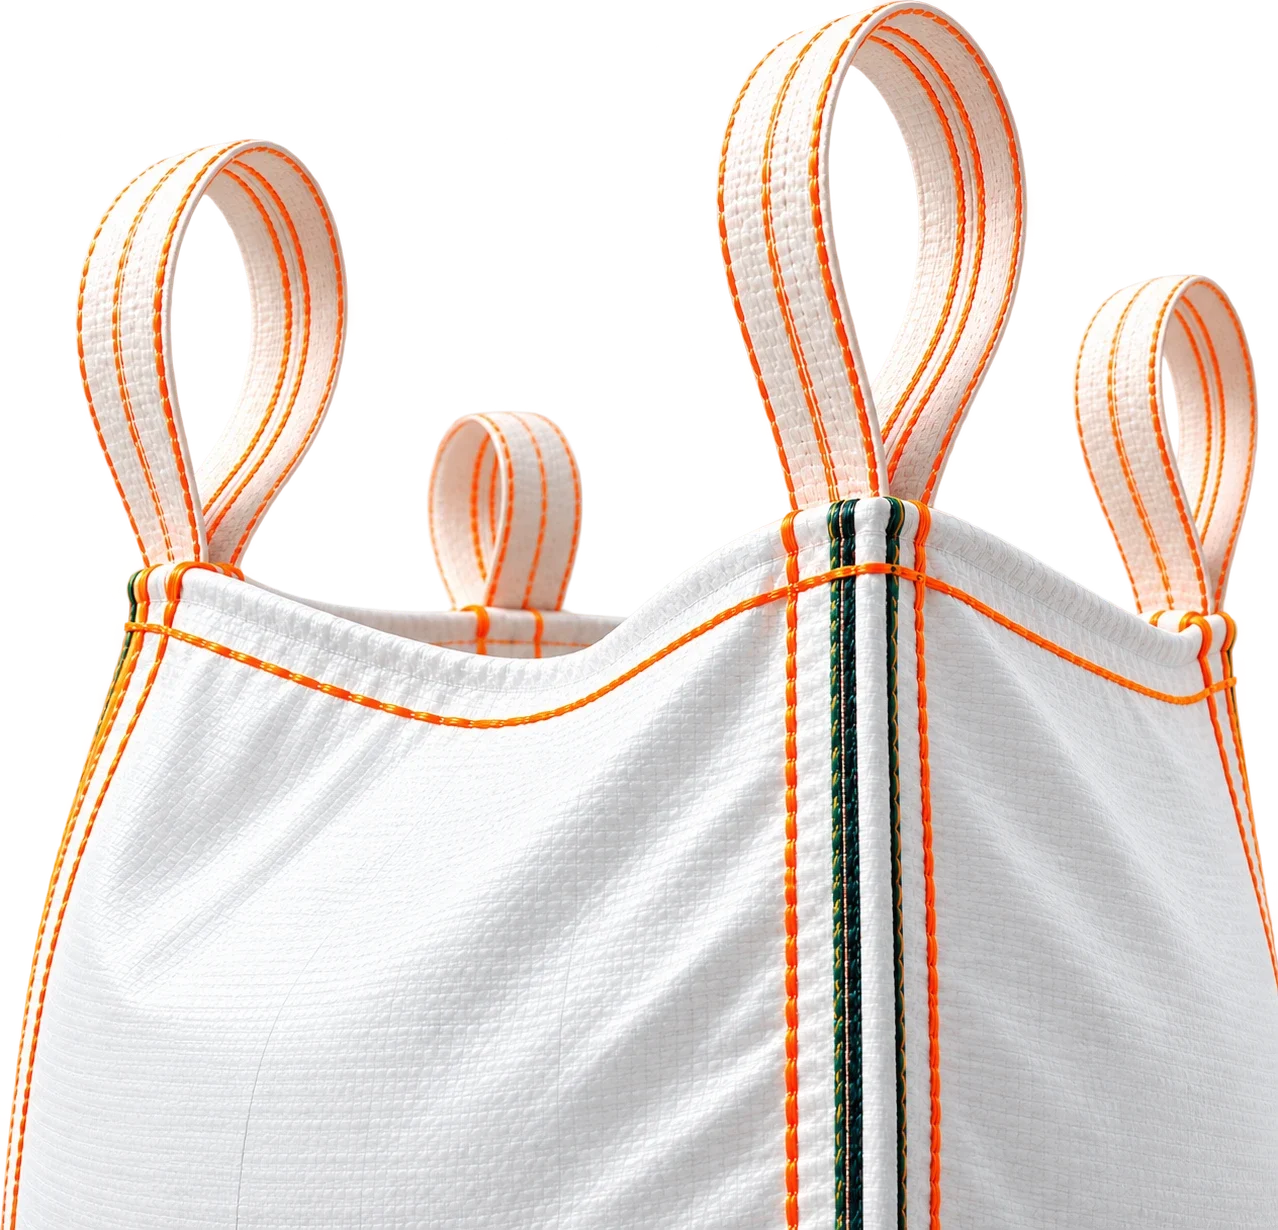
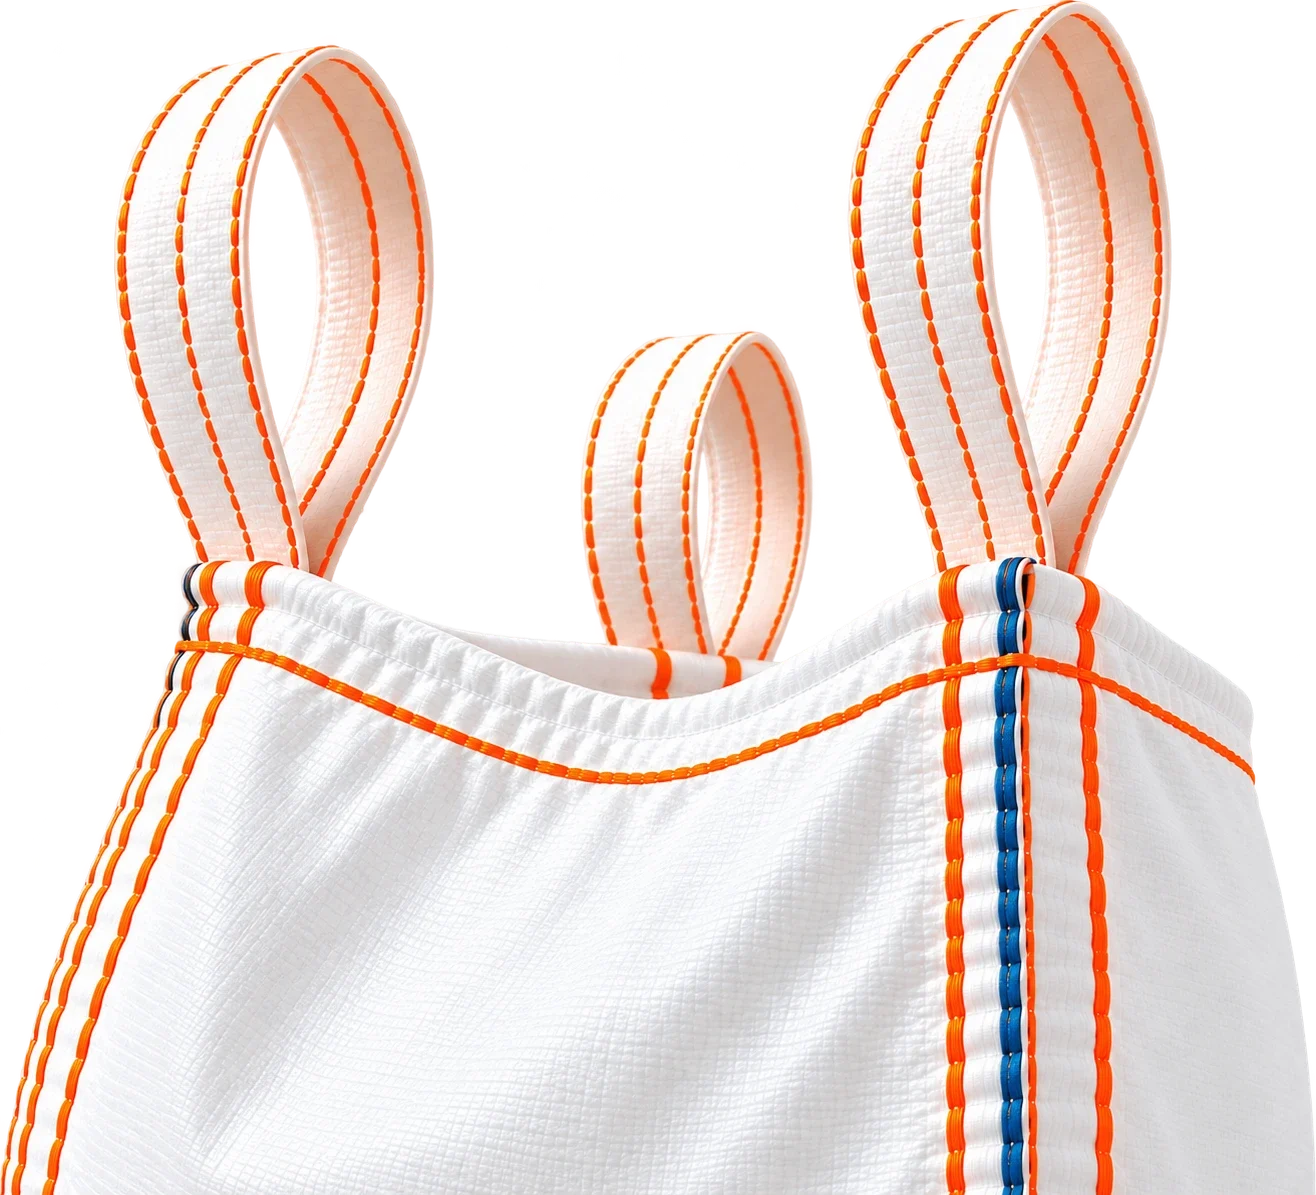
Swap the contact backdrop and tuck it in beside the copy
New photograph, cut off only along the bottom now rather than the
bottom and the right. Its proportions changed from 1.039 to 1.101, so
a wider frame is shorter at the same width; the column width is retuned
so the bag still fills the column height and keeps its cut edge below
the clip line.

Moved 114px left, which is set against the bag's silhouette rather than
its bounding box. The photo is transparent down its left side for most
of its height, so the box sits well left of where the bag actually
reads, and measuring the box alone would have left an unnecessary gap.

Clearance to the nearest text, measured per line against the silhouette:
7px in English, bound by the headline, and 25px in Swedish, bound by
the lede. Both languages checked, since the binding line differs.

diff --git a/src/styles/site.css b/src/styles/site.css
@@ -505,11 +505,15 @@
    contain the width sets the height, and the height has to exceed the column
    so the photo's cut-off bottom edge falls outside the clip. The column
    height barely changes with viewport, so the cap is an absolute px value.
-   The left offset is a fixed px value, not a percentage: the headline is
-   capped at 13ch so the text always ends at the same 501px whatever the
-   viewport, and the bag has to clear it. A percentage would slide back over
-   the text on narrow screens. */
-.fortapac .contact-bag{position:absolute;top:0;bottom:0;left:506px;width:76%;min-width:950px;max-width:960px;z-index:0;pointer-events:none}
+   The left offset is a fixed px value, not a percentage: the copy is capped
+   in ch units so it always ends at the same point whatever the viewport,
+   and the bag has to clear it. A percentage would slide back over the text
+   on narrow screens.
+
+   The offset is set against the bag's silhouette rather than its bounding
+   box. The photo is transparent down its left side for most of its height,
+   so the box can sit well left of where the bag actually reads. */
+.fortapac .contact-bag{position:absolute;top:0;bottom:0;left:392px;width:1030px;z-index:0;pointer-events:none}
 /* The photograph is cut off by its own frame: transparent around the loops at
    the top, but fully opaque along the bottom edge where the bag runs out of
    shot. Centred, that hard edge floats mid-section and reads as a rectangle.
